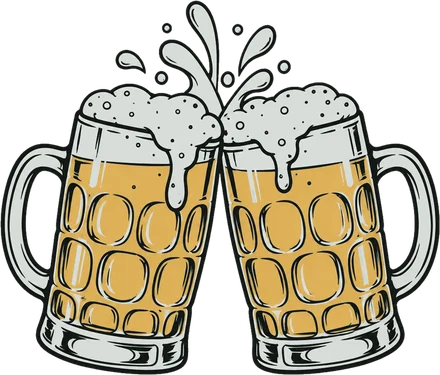
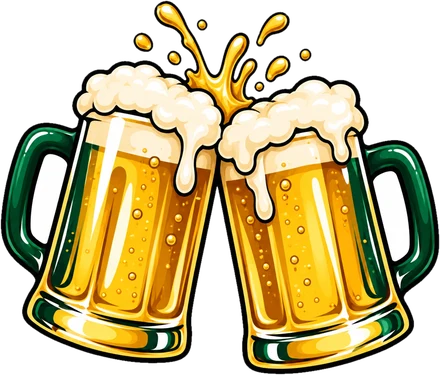
Bolder beers and a fuller wings basket; header drawings at full strength
- Clinking beers redrawn in the sports set style (was the old pale sketch)
- Wings basket redrawn piled high with a pennant flag and dip
- Page header drawings no longer faded to 80% (homepage decor still is)

diff --git a/components/Decor.tsx b/components/Decor.tsx
@@ -38,7 +38,7 @@ const ASPECT: Record<DecorName, number> = {
   "mma-gloves": 415 / 440,
   "baseball-bat": 440 / 282,
   burger: 385 / 440,
-  wings: 440 / 312,
+  wings: 440 / 416,
   microphone: 361 / 440,
   "happy-hour": 440 / 410,
   "title-belt": 440 / 258,
@@ -59,7 +59,8 @@ export const MOBILE_SIZE = "clamp(64px, 19vw, 84px)";
 // Width for a drawing so its area matches a size x size square
 export const decorWidth = (name: DecorName, size: string) => `calc(${size} * ${Math.sqrt(ASPECT[name]).toFixed(3)})`;
 
-export function DecorImg({ name, size, rotate = 0, className = "" }: { name: DecorName; size: string; rotate?: number; className?: string }) {
+// faded: the homepage drawings sit behind content at 80%; the page headers show them at full strength
+export function DecorImg({ name, size, rotate = 0, className = "", faded = true }: { name: DecorName; size: string; rotate?: number; className?: string; faded?: boolean }) {
   return (
     // eslint-disable-next-line @next/next/no-img-element
     <img
@@ -67,7 +68,7 @@ export function DecorImg({ name, size, rotate = 0, className = "" }: { name: Dec
       alt=""
       aria-hidden="true"
       loading="lazy"
-      className={`h-auto select-none pointer-events-none opacity-80 ${className}`}
+      className={`h-auto select-none pointer-events-none ${faded ? "opacity-80" : ""} ${className}`}
       style={{ width: decorWidth(name, size), transform: `rotate(${rotate}deg)` }}
     />
   );

diff --git a/components/PageHeader.tsx b/components/PageHeader.tsx
@@ -20,8 +20,8 @@ const ICONS: Record<HeaderPage, [DecorName, DecorName]> = {
 function Icon({ name, rotate }: { name: DecorName; rotate: number }) {
   return (
     <span className="shrink-0">
-      <DecorImg name={name} size={DESKTOP_SIZE} rotate={rotate} className="hidden md:block" />
-      <DecorImg name={name} size={MOBILE_SIZE} rotate={rotate} className="md:hidden" />
+      <DecorImg name={name} size={DESKTOP_SIZE} rotate={rotate} faded={false} className="hidden md:block" />
+      <DecorImg name={name} size={MOBILE_SIZE} rotate={rotate} faded={false} className="md:hidden" />
     </span>
   );
 }
